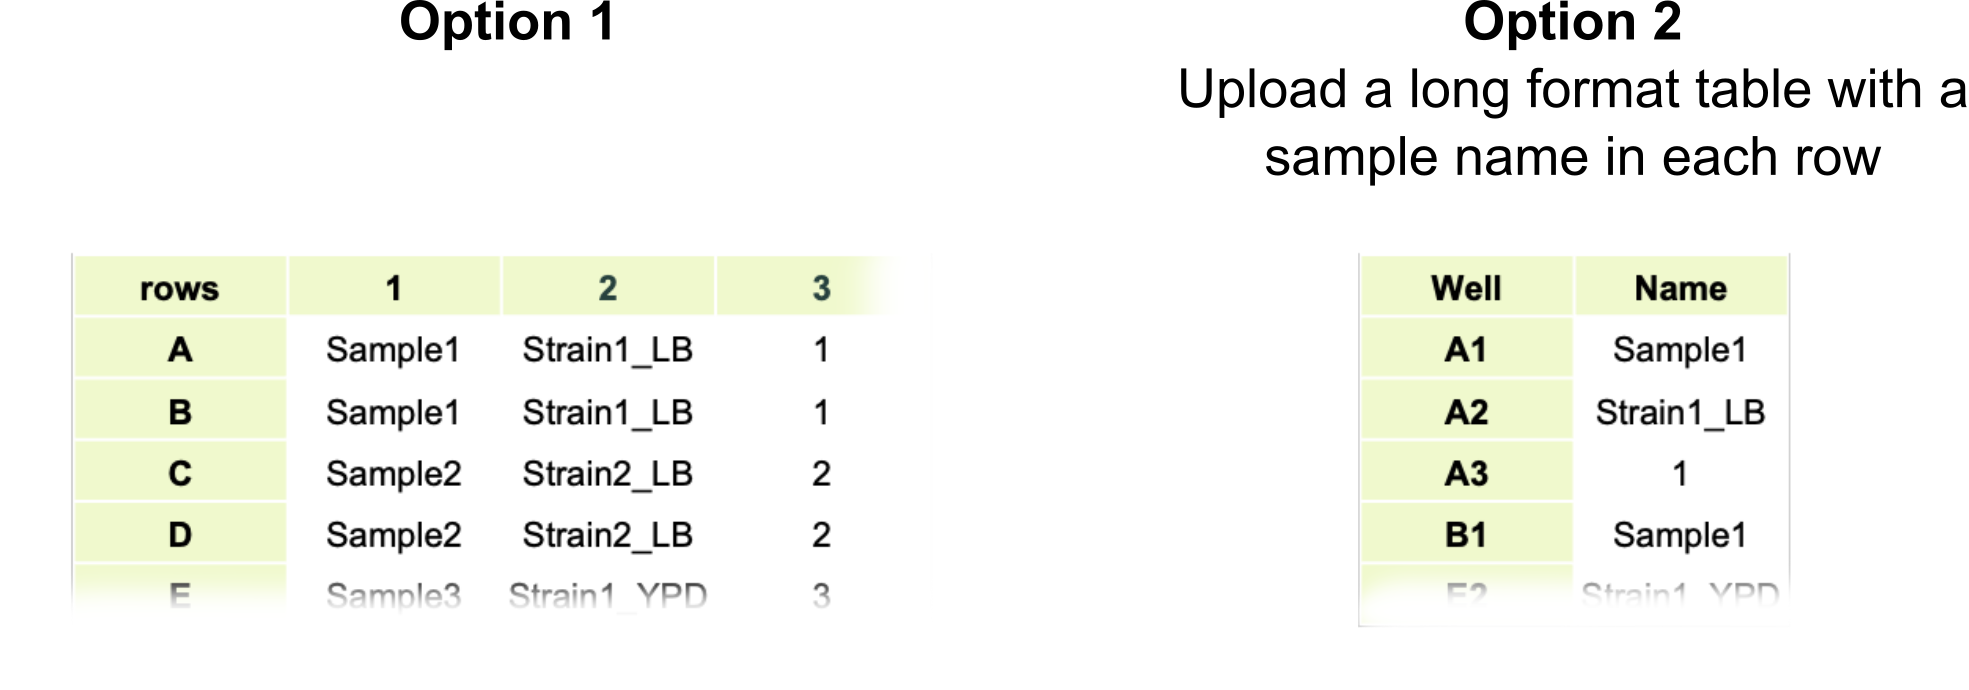
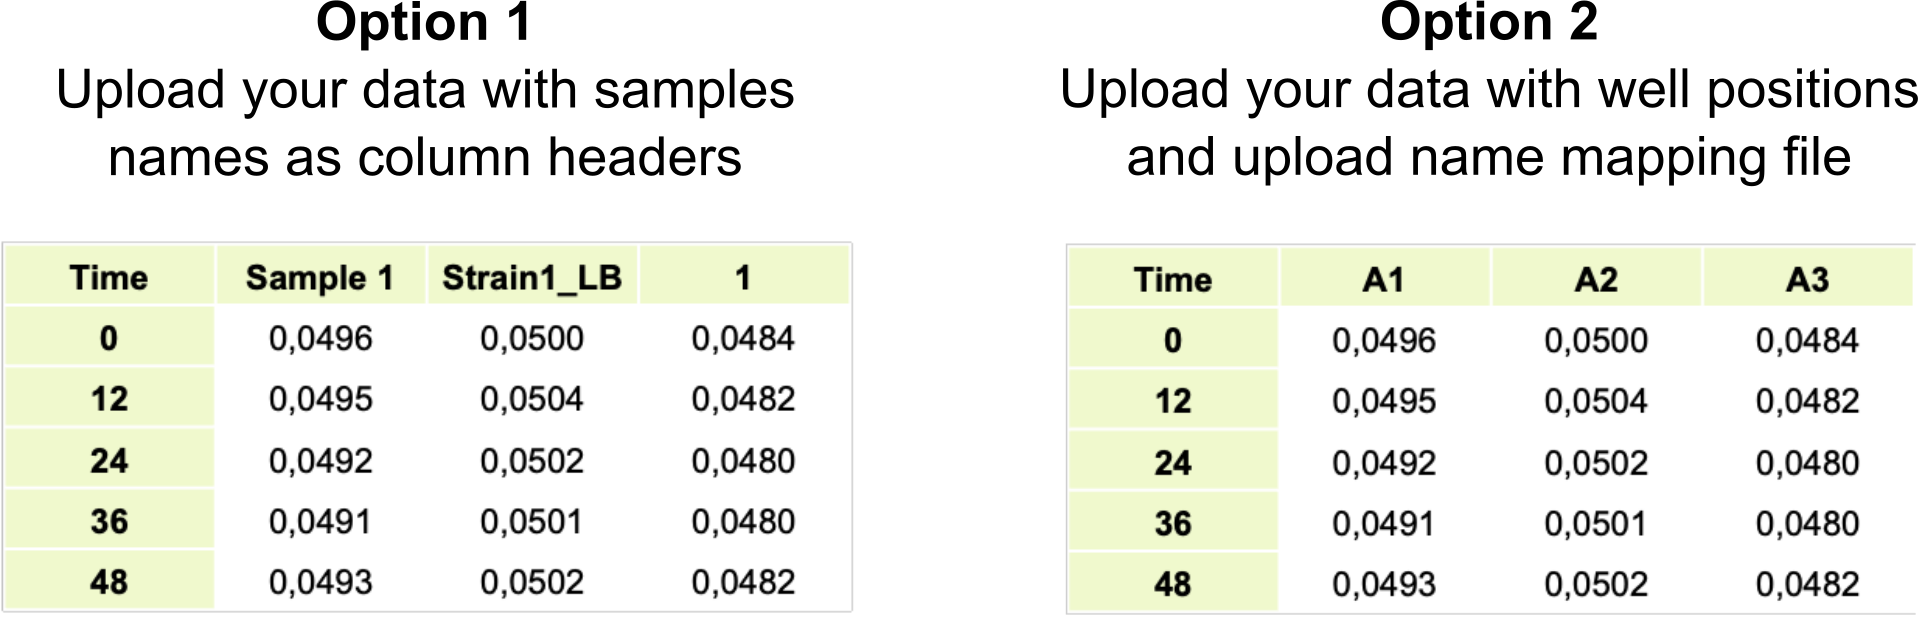
ui update

diff --git a/src/ui_functions/uploads_ui.py b/src/ui_functions/uploads_ui.py
@@ -289,7 +289,7 @@ def ui_upload_files(ss):
             # Header row with requirements in top right
             header_col, req_col = st.columns([3, 1])
             with header_col:
-                st.header("Step 2. Upload sample names")
+                st.header("Step 2. Upload names")
             with req_col:
                 with st.popover("Requirements", width="stretch"):
                     st.caption(
